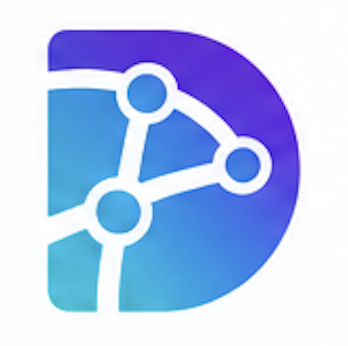
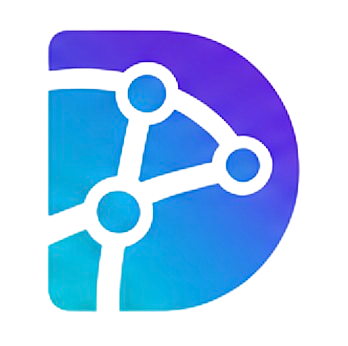
fix: use background-removed branding assets
Replace website icons and favicon with supplied transparent PNGs and update asset documentation.

diff --git a/app/deskonekt/admin/page.tsx b/app/deskonekt/admin/page.tsx
@@ -13,7 +13,7 @@ export const metadata={title:"Superadmin",robots:{index:false,follow:false}};
 const tabs=["overview","structure","people","subjects","assignments","accounts","attendance","grading","completion","audit"];
 export default async function AdminPage({searchParams}:{searchParams:Promise<{school?:string;tab?:string;year?:string;page?:string;status?:string}>}) {
  const params=await searchParams; const d=await getAdminData(params.school); const tab=tabs.includes(params.tab??"")?params.tab!:"overview";
- return <div className="min-h-screen"><a href="#admin-main" className="sr-only focus:not-sr-only">Skip to administration</a><header className="bg-white border-b border-border px-5 sm:px-8 py-3 flex justify-between items-center gap-4"><Link href="/deskonekt/admin" className="flex gap-3 items-center"><Image src="/brand/deskonekt-icon-light.png" width={404} height={394} alt="" className="w-10 h-auto" sizes="40px" /><div><span className="text-lg font-semibold text-navy">{brand.name}</span><p className="text-[11px] text-muted">Superadmin · {brand.byline}</p></div></Link><div className="flex items-center gap-4"><Link href="/teacher" className="text-sm text-primary">Open teacher workspace</Link><span className="hidden sm:block text-xs text-muted">{d.user.email}</span><form action={logout}><SubmitButton variant="outline" size="sm" pendingLabel="Signing out…">Sign out</SubmitButton></form></div></header>
+ return <div className="min-h-screen"><a href="#admin-main" className="sr-only focus:not-sr-only">Skip to administration</a><header className="bg-white border-b border-border px-5 sm:px-8 py-3 flex justify-between items-center gap-4"><Link href="/deskonekt/admin" className="flex gap-3 items-center"><Image src="/brand/deskonekt-icon-light-transparent.png" width={404} height={394} alt="" className="w-10 h-auto" sizes="40px" /><div><span className="text-lg font-semibold text-navy">{brand.name}</span><p className="text-[11px] text-muted">Superadmin · {brand.byline}</p></div></Link><div className="flex items-center gap-4"><Link href="/teacher" className="text-sm text-primary">Open teacher workspace</Link><span className="hidden sm:block text-xs text-muted">{d.user.email}</span><form action={logout}><SubmitButton variant="outline" size="sm" pendingLabel="Signing out…">Sign out</SubmitButton></form></div></header>
  <main id="admin-main" className="max-w-7xl mx-auto p-5 sm:p-8">
   <div className="flex flex-wrap justify-between gap-4 items-end mb-6"><div><p className="text-xs text-muted mb-2">Platform administration</p><h1 className="text-2xl font-semibold text-navy">{d.selected?.name??"Schools"}</h1><p className="text-sm text-muted mt-2">{d.selected?"Configure the school and connect accounts.":"Manage schools and academic records."}</p></div><div className="flex gap-4 text-xs text-muted"><span>Billing · Planned</span></div></div>
   {d.selected ? <>

diff --git a/components/app-shell.tsx b/components/app-shell.tsx
@@ -11,7 +11,7 @@ export function AppShell({ children, active = "workspace", name = "School accoun
  return <div className="min-h-screen">
   <a href="#main" className="sr-only focus:not-sr-only focus:fixed focus:z-50 focus:bg-white focus:p-3">Skip to workspace</a>
   <header className="h-16 bg-white border-b border-border flex items-center justify-between px-5 lg:px-7 gap-4">
-   <Link href={base} className="flex shrink-0 items-center gap-2.5 text-navy font-semibold text-xl tracking-tight"><Image src="/brand/deskonekt-icon-light.png" alt="" width={404} height={394} className="h-10 w-auto shrink-0" sizes="42px" /><span className="flex flex-col leading-tight">{brand.name}<span className="text-[10px] font-normal tracking-normal text-muted mt-0.5">{brand.byline}</span></span></Link>
+   <Link href={base} className="flex shrink-0 items-center gap-2.5 text-navy font-semibold text-xl tracking-tight"><Image src="/brand/deskonekt-icon-light-transparent.png" alt="" width={404} height={394} className="h-10 w-auto shrink-0" sizes="42px" /><span className="flex flex-col leading-tight">{brand.name}<span className="text-[10px] font-normal tracking-normal text-muted mt-0.5">{brand.byline}</span></span></Link>
    <div className="flex items-center gap-4"><span className="hidden sm:flex items-center gap-2 text-xs text-muted"><ShieldCheck size={15} /> School workspace</span><div className="h-7 border-l border-border" /><span className="h-8 w-8 bg-[#ece7fa] rounded-full flex items-center justify-center text-primary font-semibold text-xs">{name.split(/\s+/).map(part => part[0]).slice(0,2).join("").toUpperCase()}</span><span className="hidden md:block text-sm">{name}</span></div>
   </header>
   <div className="md:grid md:grid-cols-[218px_minmax(0,1fr)] min-h-[calc(100vh-64px)]">

diff --git a/app/login/page.tsx b/app/login/page.tsx
@@ -10,7 +10,7 @@ export default async function Login({ searchParams }: { searchParams: Promise<{ 
  const configured = isSupabaseConfigured();
  return <main className="min-h-screen grid lg:grid-cols-[1fr_1.15fr]">
   <section className="bg-navy text-white px-8 py-12 lg:p-16 flex flex-col justify-between gap-16">
-   <Link href="/login" className="flex items-center gap-3 text-xl font-semibold tracking-tight"><Image src="/brand/deskonekt-icon-dark.png" alt="" width={398} height={390} className="h-14 w-auto shrink-0" sizes="58px" /> {brand.name}</Link>
+   <Link href="/login" className="flex items-center gap-3 text-xl font-semibold tracking-tight"><Image src="/brand/deskonekt-icon-dark-transparent.png" alt="" width={398} height={390} className="h-14 w-auto shrink-0" sizes="58px" /> {brand.name}</Link>
    <div className="max-w-md"><p className="text-cyan-300 text-xs font-semibold tracking-[.16em] uppercase mb-5">Academic workspace</p><h1 className="text-3xl lg:text-4xl font-semibold leading-tight max-w-sm">{brand.tagline}</h1><p className="text-sm text-cyan-300 mt-4">{brand.byline}</p><p className="text-slate-300 leading-relaxed mt-6">A seamless academic workspace built around the teacher.</p><div className="h-px bg-white/15 my-8" /><p className="text-sm text-slate-300 flex gap-3 items-center"><ShieldCheck size={18} className="text-cyan-300 shrink-0" /> Access is scoped to your school and assignments.</p></div>
    <p className="text-xs text-slate-400">Built around your day-to-day academic work.</p>
   </section>

diff --git a/app/deskonekt/admin/login/page.tsx b/app/deskonekt/admin/login/page.tsx
@@ -8,7 +8,7 @@ export const metadata = {title:"Superadmin sign-in",robots:{index:false,follow:f
 export default function AdminLogin() {
  const configured = isSupabaseConfigured();
  return <main className="min-h-screen grid place-items-center p-6"><section className="w-full max-w-md bg-white rounded-lg border border-border p-7 sm:p-9">
-  <div className="flex items-center gap-3 mb-8"><Image src="/brand/deskonekt-icon-light.png" width={404} height={394} alt="" className="w-12 h-auto" sizes="48px" /><div><p className="font-semibold text-xl text-navy">{brand.name}</p><p className="text-xs text-muted">{brand.byline}</p></div></div>
+  <div className="flex items-center gap-3 mb-8"><Image src="/brand/deskonekt-icon-light-transparent.png" width={404} height={394} alt="" className="w-12 h-auto" sizes="48px" /><div><p className="font-semibold text-xl text-navy">{brand.name}</p><p className="text-xs text-muted">{brand.byline}</p></div></div>
   <h1 className="text-2xl font-semibold text-navy">Superadmin sign-in</h1><p className="text-muted text-sm mt-2 mb-6">Manage schools, accounts, and your Deskonekt setup.</p>
   {!configured && <p role="status" className="rounded border border-amber-200 bg-amber-50 p-3 text-sm text-amber-900 mb-5">Connect Supabase and provision your first superadmin account to enable sign-in. Setup instructions are in the project’s admin guide.</p>}
   <LoginForm configured={configured} admin />

diff --git a/codex.md b/codex.md
@@ -35,7 +35,7 @@
 - `scripts/bootstrap-admin.mjs`: first-superadmin creation for a new Auth email; refuses an existing platform admin. Requires URL, service-role key, bootstrap email/password (12+ characters). Remove bootstrap password after use.
 - `tests/fixtures/school.sql`: isolated embedded PostgreSQL fixture, never loaded into Supabase by application/reset workflows.
 - `tests/`: auth, permissions, RLS, setup and sample-cleanup regression checks. No live test-school generator remains.
-- `assets/brand/app-icons/`: original icon submissions. `public/brand/deskonekt-icon-{light,dark}.png` are unchanged supplied copies; `app/icon.png` is the supplied favicon.
+- `assets/brand/app-icons/`: original icon submissions. `public/brand/deskonekt-icon-{light,dark}-transparent.png` are unchanged supplied copies; `app/icon.png` is the supplied favicon.
 - `docs/implementation.md`, `docs/superadmin.md`, `docs/sample-data-removal.md`: scope, setup and hosted cleanup instructions.
 
 ## Routes
@@ -207,3 +207,9 @@
 - `docs/school-account-imports.md`, README, invitation guide, implementation guide and offline type generator/types updated. Apply ONLY new migration then deploy; existing APP_URL, server Supabase key, redirect allowlist, invite template and Resend SMTP remain prerequisites. No hosted migrations, real-user records, emails or deployments performed.
 - Validation so far: 142 unit/integration checks passed, production build passed. Tests cover parsing/mixed roles, transactional duplicate rollback, tenant/role denial, direct writes, service-only finalization, duplicate claims, stale authority, existing-account review, rate-limit/unknown-delivery handling, and account profile metadata. Final browser/lint/type checks recorded below when complete. Authenticated UI and hosted Auth/SMTP remain unverified.
 - Final validation: 16 production-browser checks passed after restoring the missing temporary Chromium cache; lint, standalone typecheck, Webpack production build and whitespace checks passed. Browser scope is unauthenticated protection/destination preservation, the blank CSV template and existing feedback flows. No live delivery or authenticated import UI was exercised.
+
+## Background-removed branding assets (2026-09-20)
+- Replaced school sign-in, teacher/student workspace headers, superadmin sign-in/header and browser favicon with the supplied removebg PNG variants. Artwork is copied unchanged; dimensions match existing image component declarations.
+- Public header asset filenames now include `-transparent` to avoid reusing cached versions of the old images. `app/icon.png` remains the Next metadata favicon convention. Removed obsolete public copies; original submissions remain in assets/brand/app-icons.
+- Updated asset README mapping. Supplied dark variant retains its navy rounded tile; its surrounding pixels are transparent. The horizontal lockup has no existing website usage and remains available as source artwork.
+- Validation: verified byte-for-byte matches for all three supplied PNGs, checked alpha channels/dimensions, and passed TypeScript and whitespace checks. No deployment performed.

diff --git a/assets/brand/app-icons/README.md b/assets/brand/app-icons/README.md
@@ -18,9 +18,9 @@ metadata and interface.
 
 ## Applied assets
 
-- `app_icon_light.png` → `public/brand/deskonekt-icon-light.png`: workspace header.
-- `app_icon_dark.png` → `public/brand/deskonekt-icon-dark.png`: sign-in branding.
-- `icon:favicon.png` → `app/icon.png`: browser favicon, registered through Next.js metadata conventions.
+- `app_icon_light-removebg-preview.png` → `public/brand/deskonekt-icon-light-transparent.png`: workspace header.
+- `app_icon_dark-removebg-preview.png` → `public/brand/deskonekt-icon-dark-transparent.png`: sign-in branding.
+- `icon_favicon-removebg-preview (4).png` → `app/icon.png`: browser favicon, registered through Next.js metadata conventions.
 
 These are unchanged copies of the supplied artwork. The banner and horizontal
 lockup variants remain available here for future brand surfaces.
